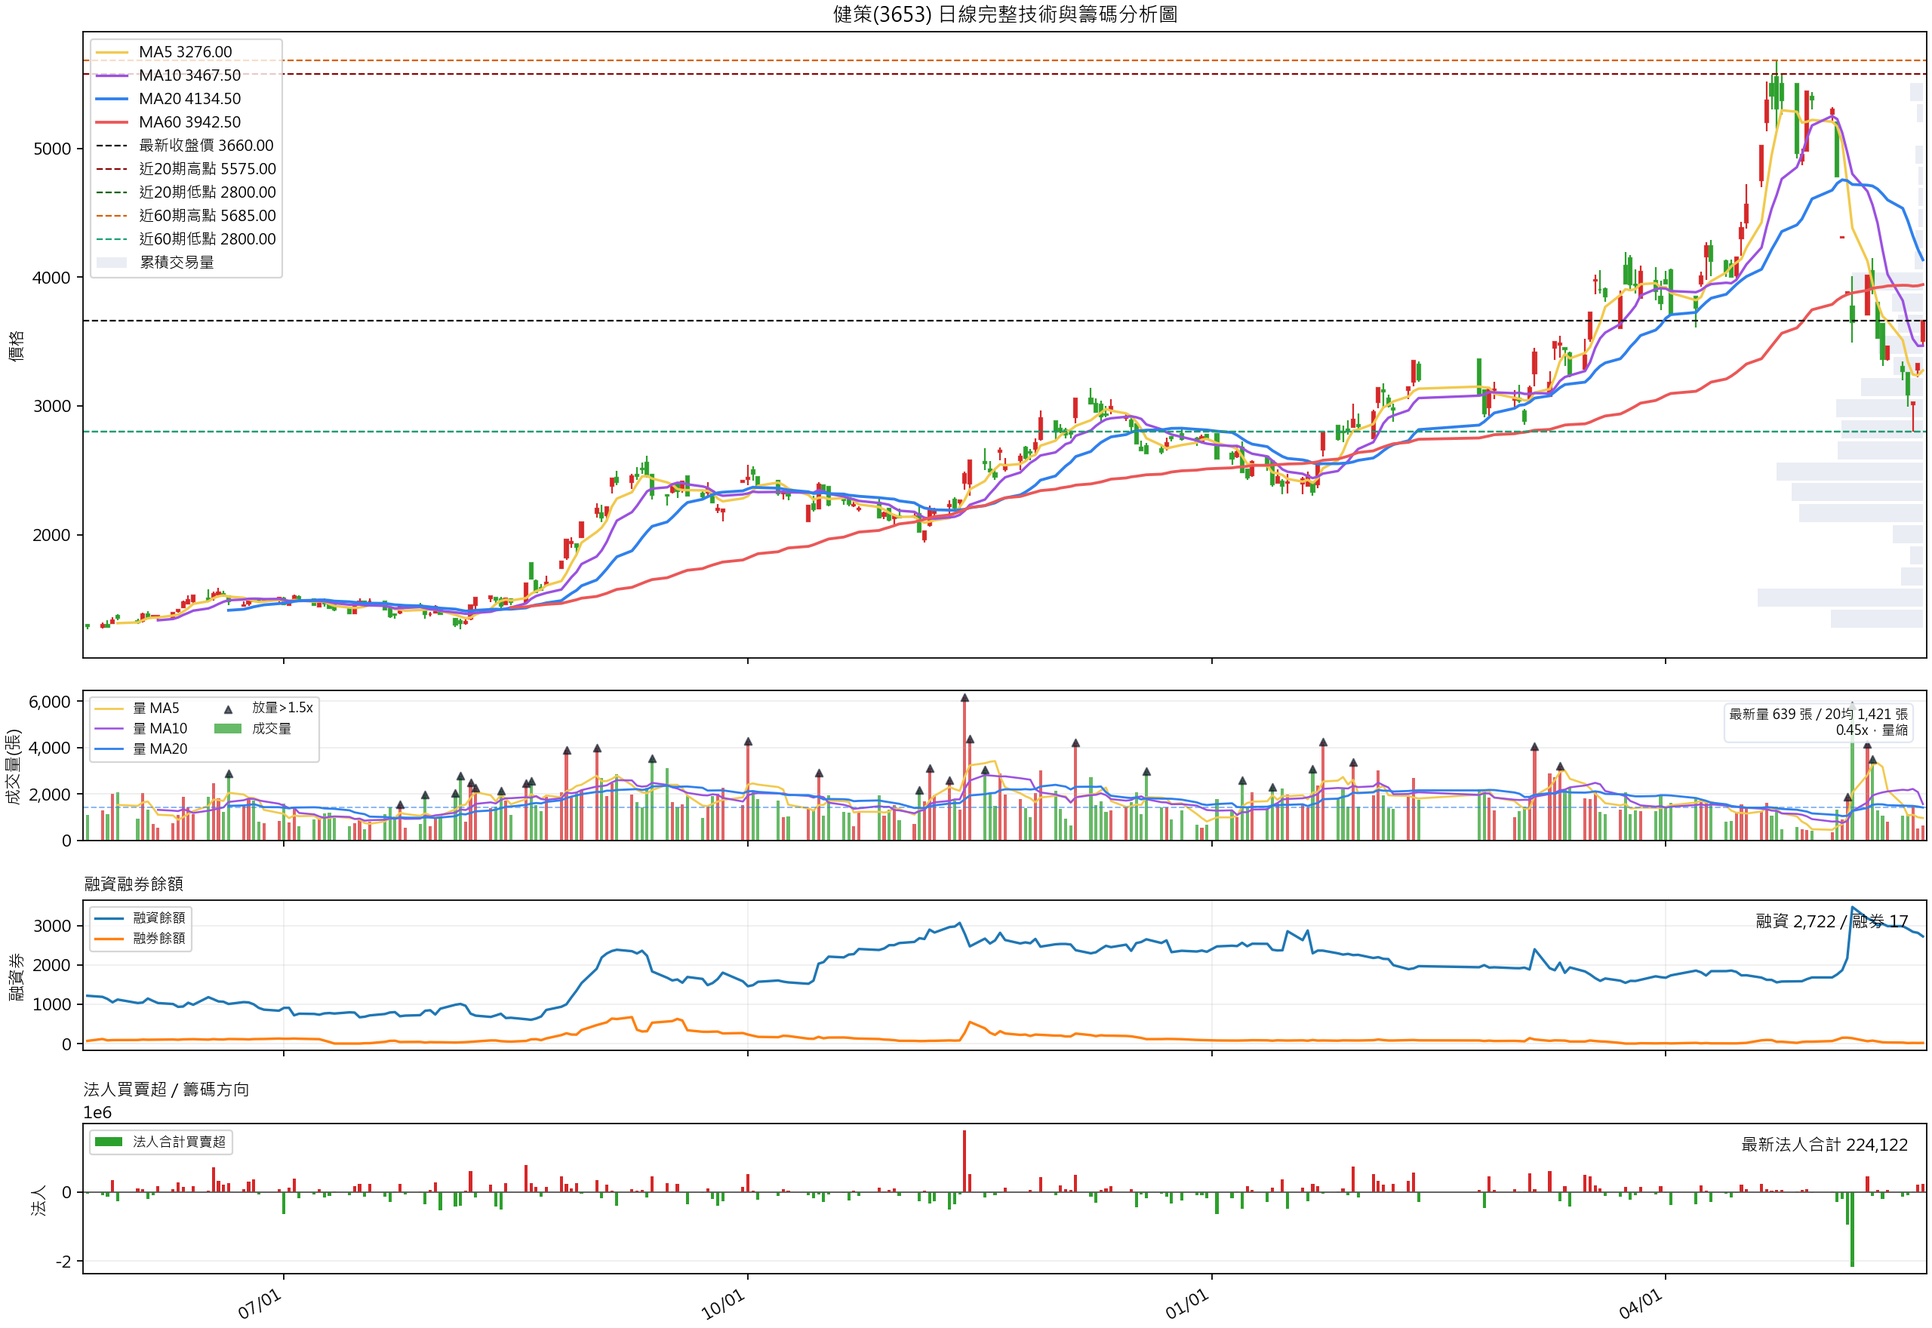
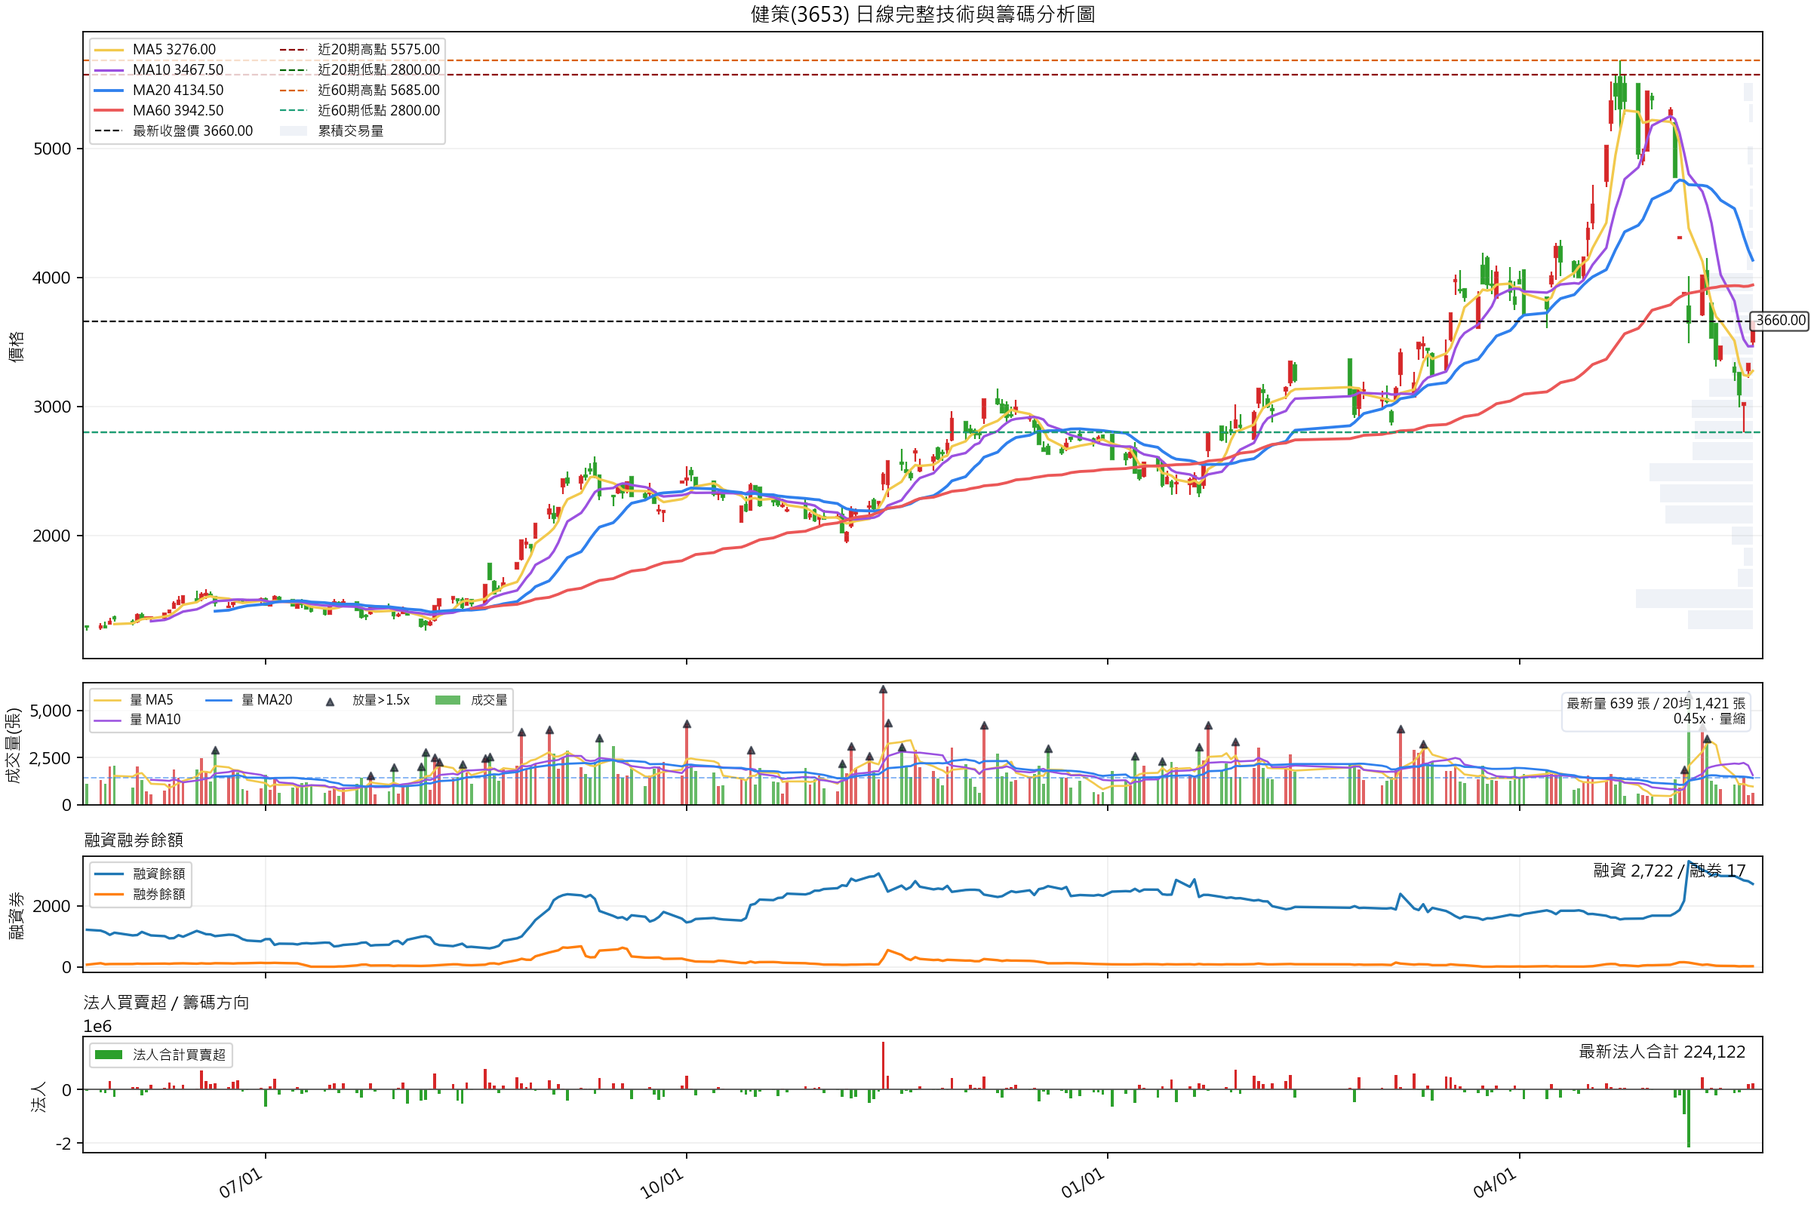
Publish stock report 3653_2026-05-23

diff --git a/3653_2026-05-23/index.html b/3653_2026-05-23/index.html
@@ -92,16 +92,18 @@
 <body>
   <header>
     <h1>健策(3653) 台股技術分析報告</h1>
-    <div>產生時間：2026-05-23T09:34:19+08:00</div>
+    <div>產生時間：2026-05-23T14:56:04+08:00</div>
   </header>
   <main>
     
     <section class="panel conclusion">
       <h2>結論摘要</h2>
-      <div class="summary-grid"><div class="summary-card"><span>整體方向</span><strong>中性偏弱；收盤站上 MA5, MA5 低於 MA10, MA10 上方但投信支撐不足</strong></div>
+      <div class="summary-grid"><div class="summary-card"><span>一句話</span><strong>中性偏弱，偏多震盪；站穩 MA10 3467.50 並突破 5575.00 才有續攻機會，跌破 MA20 4134.50 轉防守。</strong></div>
+<div class="summary-card"><span>整體方向</span><strong>中性偏弱；收盤站上 MA5, MA5 低於 MA10, MA10 上方但投信支撐不足</strong></div>
 <div class="summary-card"><span>明日觀察</span><strong>價漲量縮；明日觀察 MA5 3276.00 / MA10 3467.50</strong></div>
 <div class="summary-card"><span>支撐</span><strong>第一 3276.00 / 第二 3467.50 / 強 4134.50</strong></div>
-<div class="summary-card"><span>壓力</span><strong>5575.00</strong></div></div>
+<div class="summary-card"><span>壓力</span><strong>5575.00</strong></div>
+<div class="summary-card"><span>權證對現股</span><strong>中性偏投機</strong></div></div>
     </section>
     
     <section class="panel">
@@ -119,7 +121,7 @@
 <tr><th>基本面資料</th><td>月營收、估值與正式 EPS 已取得</td></tr></table>
     </section>
     <section class="panel analysis"><h2>零、整體評語 / 技術分析概念 / 明日走向</h2><ul><li>整體評語：目前整體評級為「中性偏弱」（分數 -2）。日線 偏多、周線 偏多、月線 偏空，三個週期若同向，訊號可信度較高；若互相矛盾，應以區間與量能確認為主。</li><li>技術分析概念：本報告以趨勢、位置、量能三個面向判讀。趨勢看均線排列（MA5 3276.00, MA10 3467.50, MA20 4134.50, MA60 3942.50），位置看近 20 / 60 日高低點，量能看今日成交量 638,947 是否高於近 20 日均量 1,420,755。</li><li>目前結構：價格低於主要均線，趨勢結構偏弱，反彈前需先觀察止跌量價。收盤位於近 20 日區間約 31% 位置，仍需觀察是否能脫離區間。量能低於近 20 日均量，代表市場仍偏觀望，突破或跌破訊號需等補量確認。</li><li>MA5 短線判斷：收盤站上 MA5，短線仍有撐盤力道。</li><li>MA10 / 投信支撐：收盤價站上 MA10（3467.50），但投信近 10 日買賣超 -261,617，表示價格雖守住短線均線，法人支撐不足，若跌破 MA10 需提高防守。</li><li>明日走向推估：基於 日漲跌為正, 收盤站上 MA5, 收盤站上 MA10, 收盤跌破 MA20，明日初步以「偏多震盪」看待；若開高並站穩 5575.00，有機會延續挑戰上方壓力；若開低或跌破 2800.00，短線需先防守轉弱。</li><li>觀察價位：短線支撐優先看 4134.50，壓力優先看 5575.00；明日若量能放大且收盤方向明確，會比盤中瞬間突破或跌破更具參考性。</li></ul></section>
-<section class="panel analysis"><h2>一、圖表重點解讀</h2><ul><li>整體評分為「中性偏弱」（分數 -2），主要依據：收盤站上 MA5、MA5 低於 MA10、收盤低於 MA20、收盤低於 MA60、MA20 高於 MA60、量能偏低。</li><li>資料最後交易日為 2026-05-22，最新收盤價 3660.00，單日漲跌幅 9.91%；一年區間 1265.00～5685.00，一年報酬 183.72%。</li><li>趨勢判讀：價格與 20 日、60 日均線交錯，趨勢仍偏整理。 目前 收盤價位於區間中段，短線方向仍需量價確認。</li><li>量價判讀：價漲量縮。價格上漲但量能不足，代表追價力道有限；若接近壓力區，需提防假突破。</li><li>短線均線判斷：收盤站上 MA10=3467.50，但 MA5=3276.00 仍低於 MA10，代表短線正在修復但均線尚未重新翻多。收盤價站上 MA10（3467.50），但投信近 10 日買賣超 -261,617，表示價格雖守住短線均線，法人支撐不足，若跌破 MA10 需提高防守。</li><li>短線風險 / 空間：距近 20 日低點約 30.71%，距近 20 日高點約 52.32%；量能為近 20 日均量 0.45 倍。</li><li>同族群題材判斷：健策(3653) 期間報酬 183.72%，排名第 3/7，屬於位於族群中段；族群同步偏強（上漲 6/7 檔），領先者為 高力(8996) 402.15%。股價較依賴個股量價與法人籌碼，需等待族群擴散或本股重新轉強。</li><li>操作解讀上，若價格突破壓力且量能續增，偏多情境較有延續性；若跌破短線支撐且放量，需優先控管風險。</li></ul></section>
+<section class="panel analysis"><h2>一、圖表重點解讀</h2><ul><li>整體評分為「中性偏弱」（分數 -2），主要依據：收盤站上 MA5、MA5 低於 MA10、收盤低於 MA20、收盤低於 MA60、MA20 高於 MA60、量能偏低。</li><li>資料最後交易日為 2026-05-22，最新收盤價 3660.00，單日漲跌幅 9.91%；一年區間 1265.00～5685.00，一年報酬 183.72%。</li><li>趨勢判讀：價格與 20 日、60 日均線交錯，趨勢仍偏整理。 目前 收盤價位於區間中段，短線方向仍需量價確認。</li><li>量價判讀：價漲量縮。價格上漲但量能不足，代表追價力道有限；若接近壓力區，需提防假突破。</li><li>短線均線判斷：收盤站上 MA10=3467.50，但 MA5=3276.00 仍低於 MA10，代表短線正在修復但均線尚未重新翻多。收盤價站上 MA10（3467.50），但投信近 10 日買賣超 -261,617，表示價格雖守住短線均線，法人支撐不足，若跌破 MA10 需提高防守。</li><li>短線風險 / 空間：距近 20 日低點約 30.71%，距近 20 日高點約 52.32%；量能為近 20 日均量 0.45 倍。</li><li>同族群題材判斷：健策(3653) 期間報酬 183.72%，排名第 3/7，屬於位於族群中段；族群同步偏強（上漲 6/7 檔），本股優於族群中位數，領先者為 高力(8996) 402.15%。股價較依賴個股量價與法人籌碼，需等待族群擴散或本股重新轉強。</li><li>操作解讀上，若價格突破壓力且量能續增，偏多情境較有延續性；若跌破短線支撐且放量，需優先控管風險。</li></ul></section>
 <section class="panel analysis"><h2>二、日週月趨勢與支撐壓力</h2><ul><li>日線：MA5 3276.00、MA10 3467.50、MA20 4134.50；收盤站上 MA10=3467.50，但 MA5=3276.00 仍低於 MA10，代表短線正在修復但均線尚未重新翻多。</li><li>周線 / 月線：周收 3660.00（5.63%），月收 3660.00（-31.97%）。</li><li>支撐：第一 MA5 3276.00 / 近 5 日低點 2800.00；第二 MA10 3467.50；強支撐 MA20 4134.50 / 近 20 日低點 2800.00。</li><li>壓力：短線看近 20 日高點 5575.00，中線看近 60 日高點 5685.00。</li><li>簡化判斷：突破 5575.00 且補量，偏多延續；跌破 2800.00 或 MA20，先轉防守。</li></ul></section>
 <section class="panel analysis"><h2>三、圖表閱讀順序</h2><ul><li>先看 01 日線：確認短線方向、成交量與支撐壓力。</li><li>再看 02 周線與 03 月線：確認這波是短線反彈、波段趨勢，還是長期壓力區。</li><li>最後看權證、同族群、基本面與集保：只作輔助確認，不單獨決定操作。</li></ul></section>
 <section class="panel analysis"><h2>九、短線 / 中線與進出場情境</h2><ul><li>突破情境：收盤突破 5575.00 且量能高於 20 日均量，偏多延續；跌回 MA5 3276.00 下方則降權重。</li><li>拉回情境：回測 MA10 3467.50 或 MA20 4134.50 量縮守住，才視為健康整理。</li><li>防守情境：放量跌破 MA20 4134.50 或近 20 日低點 2800.00，短線先轉防守。</li><li>波動參考：ATR14 約 349.64，明日常態波動區間約 3310.36～4009.64。</li></ul></section>
@@ -127,37 +129,37 @@
     
         <section class="panel chart-panel">
           <h2>01_日線完整技術與籌碼分析圖</h2>
-          <img src="01_日線完整技術與籌碼分析圖.png?v=2026-05-23T09:34:19+08:00" alt="01_日線完整技術與籌碼分析圖">
+          <img src="01_日線完整技術與籌碼分析圖.png?v=2026-05-23T14:56:04+08:00" alt="01_日線完整技術與籌碼分析圖">
         </section>
         
 
         <section class="panel chart-panel">
           <h2>02_周線完整技術與趨勢分析圖</h2>
-          <img src="02_周線完整技術與趨勢分析圖.png?v=2026-05-23T09:34:19+08:00" alt="02_周線完整技術與趨勢分析圖">
+          <img src="02_周線完整技術與趨勢分析圖.png?v=2026-05-23T14:56:04+08:00" alt="02_周線完整技術與趨勢分析圖">
         </section>
         
 
         <section class="panel chart-panel">
           <h2>03_月線完整技術與長期趨勢分析圖</h2>
-          <img src="03_月線完整技術與長期趨勢分析圖.png?v=2026-05-23T09:34:19+08:00" alt="03_月線完整技術與長期趨勢分析圖">
+          <img src="03_月線完整技術與長期趨勢分析圖.png?v=2026-05-23T14:56:04+08:00" alt="03_月線完整技術與長期趨勢分析圖">
         </section>
         
 
         <section class="panel chart-panel">
           <h2>04_權證完整分析圖</h2>
-          <img src="04_權證完整分析圖.png?v=2026-05-23T09:34:19+08:00" alt="04_權證完整分析圖">
+          <img src="04_權證完整分析圖.png?v=2026-05-23T14:56:04+08:00" alt="04_權證完整分析圖">
         </section>
         
 
         <section class="panel chart-panel">
           <h2>05_同族群比較分析圖</h2>
-          <img src="05_同族群比較分析圖.png?v=2026-05-23T09:34:19+08:00" alt="05_同族群比較分析圖">
+          <img src="05_同族群比較分析圖.png?v=2026-05-23T14:56:04+08:00" alt="05_同族群比較分析圖">
         </section>
         
 
         <section class="panel chart-panel">
           <h2>06_基本面分析圖</h2>
-          <img src="06_基本面分析圖.png?v=2026-05-23T09:34:19+08:00" alt="06_基本面分析圖">
+          <img src="06_基本面分析圖.png?v=2026-05-23T14:56:04+08:00" alt="06_基本面分析圖">
         </section>
         
     <section class="panel">
@@ -185,7 +187,7 @@
 
     <details class="panel detail-panel">
       <summary>六、權證與市場情緒</summary>
-      <div class="detail-body"><ul><li>權證定位：本段只用權證資料觀察現股人氣與未來漲勢機率，不作權證買賣建議。</li><li>權證資料期間 / 出表日：TWSE report_date=1150522。</li><li>本次匹配權證 47 檔；認購 40 檔、認售 7 檔，認購/認售檔數比 5.71。</li><li>履約價分布 900.00～5120.00，中位數 3916.88；標的最新收盤 3660.00。</li><li>價內 / 近價外結構：認購價內 15 檔、認購 10% 內價外 4 檔；認售價內 0 檔、認售 10% 內價外 0 檔。</li><li>成交金額合計 6,842,720，其中認購 6,668,040（97.45%）、認售 174,680（2.55%）；認購成交較集中，前 5 大成交占比 59.36%。</li><li>權證名詞說明：近價外認購代表市場押注區離現股不遠，對現股續漲的參考性通常高於深價外；深價外認購代表想像空間大，但確認力較弱。</li><li>履約價熱區：認購成交加權履約價約 4421.79，較現股高約 20.81%；認售成交加權履約價約 2751.90，現股較其高約 33.00%。認購成交中，近價外 10% 內占 9.95%，深價外認購占 84.40%。</li><li>以權證角度看目前股價：目前股價 3660.00 距離認購成交加權履約價 4421.79 還有 20.81% 空間，代表權證市場仍在押較大的上攻想像；但若現股沒有快速補漲，深價外認購的時間價值壓力會增加。</li><li>權證情緒分型：本次屬於「偏多但投機」。近價外認購成交金額 663,680，深價外認購成交金額 5,628,090，近價外認售成交金額 0，深價外認售成交金額 174,680。深價外認購比重偏高，代表市場想像空間大，但對現股方向的確認力較弱。</li><li>資金集中度：前 5 大權證成交占 59.36%。成交集中度偏高，短線情緒可能由少數熱門權證帶動，容易放大波動。</li><li>輔助結論：認購成交很熱，但深價外認購占比較高，表示市場有追逐大波動的投機資金。它可以反映人氣升溫，但對現股漲跌的確認力低於近價外認購。</li><li>白話解讀：權證市場偏向押快速上漲，但有一部分離現股較遠；如果現股沒有繼續強，這個熱度容易先退。簡單說，權證是在看市場有沒有跟著股票一起熱起來；它可以加分或扣分，但不能單獨決定股價方向。</li><li>未來一個月現股輔助推估：現股技術面初步為「高波動區間震盪」。若價格維持在 MA20 / MA60 之上、量能不縮，且認購成交沒有明顯退潮，偏多情境較容易延續；若現股跌破支撐，即使認購仍熱，也要先降低權證訊號權重。</li><li>一個月觀察區間：上方先看 5575.00，再看近 60 日高點 5685.00；下方先看 4134.50，再看近 20 日低點 2800.00。突破近 20 日高點 5575.00 可視為偏多確認；跌破近 20 日低點 2800.00 則偏多情境失效；MA20 4134.50 是短中線強弱分界。</li><li>現股判斷用法：近價外認購有量、認售沒有明顯放大、且現股同步站穩均線時，權證資料可視為現股續漲的加分項；若權證很熱但現股不漲，則視為人氣過熱而非追價確認。</li></ul></div>
+      <div class="detail-body"><ul><li>權證定位：本段只用權證資料觀察現股人氣與未來漲勢機率，不作權證買賣建議。</li><li>權證對現股訊號：中性偏投機。認購很熱但偏深價外，較像押大波動，對現股續漲的確認力不如近價外。</li><li>權證資料期間 / 出表日：TWSE report_date=1150522。</li><li>本次匹配權證 47 檔；認購 40 檔、認售 7 檔，認購/認售檔數比 5.71。</li><li>履約價分布 900.00～5120.00，中位數 3916.88；標的最新收盤 3660.00。</li><li>價內 / 近價外結構：認購價內 15 檔、認購 10% 內價外 4 檔；認售價內 0 檔、認售 10% 內價外 0 檔。</li><li>成交金額合計 6,842,720，其中認購 6,668,040（97.45%）、認售 174,680（2.55%）；認購成交較集中，前 5 大成交占比 59.36%。</li><li>權證名詞說明：近價外認購代表市場押注區離現股不遠，對現股續漲的參考性通常高於深價外；深價外認購代表想像空間大，但確認力較弱。</li><li>履約價熱區：認購成交加權履約價約 4421.79，較現股高約 20.81%；認售成交加權履約價約 2751.90，現股較其高約 33.00%。認購成交中，近價外 10% 內占 9.95%，深價外認購占 84.40%。</li><li>以權證角度看目前股價：目前股價 3660.00 距離認購成交加權履約價 4421.79 還有 20.81% 空間，代表權證市場仍在押較大的上攻想像；但若現股沒有快速補漲，深價外認購的時間價值壓力會增加。</li><li>權證情緒分型：本次屬於「偏多但投機」。近價外認購成交金額 663,680，深價外認購成交金額 5,628,090，近價外認售成交金額 0，深價外認售成交金額 174,680。深價外認購比重偏高，代表市場想像空間大，但對現股方向的確認力較弱。</li><li>資金集中度：前 5 大權證成交占 59.36%。成交集中度偏高，短線情緒可能由少數熱門權證帶動，容易放大波動。</li><li>輔助結論：認購成交很熱，但深價外認購占比較高，表示市場有追逐大波動的投機資金。它可以反映人氣升溫，但對現股漲跌的確認力低於近價外認購。</li><li>白話解讀：權證市場偏向押快速上漲，但有一部分離現股較遠；如果現股沒有繼續強，這個熱度容易先退。簡單說，權證是在看市場有沒有跟著股票一起熱起來；它可以加分或扣分，但不能單獨決定股價方向。</li><li>未來一個月現股輔助推估：現股技術面初步為「高波動區間震盪」。若價格維持在 MA20 / MA60 之上、量能不縮，且認購成交沒有明顯退潮，偏多情境較容易延續；若現股跌破支撐，即使認購仍熱，也要先降低權證訊號權重。</li><li>一個月觀察區間：上方先看 5575.00，再看近 60 日高點 5685.00；下方先看 4134.50，再看近 20 日低點 2800.00。突破近 20 日高點 5575.00 可視為偏多確認；跌破近 20 日低點 2800.00 則偏多情境失效；MA20 4134.50 是短中線強弱分界。</li><li>現股判斷用法：近價外認購有量、認售沒有明顯放大、且現股同步站穩均線時，權證資料可視為現股續漲的加分項；若權證很熱但現股不漲，則視為人氣過熱而非追價確認。</li></ul></div>
     </details>
     
 
@@ -209,7 +211,7 @@
 
     <details class="panel detail-panel">
       <summary>八、基本面 EPS / 月營收</summary>
-      <div class="detail-body"><ul><li>基本面資料期間：revenue 2023-12-01 to 2026-05-01; PER/PBR 2025-05-23 to 2026-05-22; EPS 2021-06-30 to 2026-03-31。</li><li>最新月營收 2026-04 為 23.11 億元，MoM 6.82%，YoY 26.92%。</li><li>近 3 個月營收 57.43 億元，較前 3 個月 5.49%。</li><li>最新估值：PER 101.24、PBR 25.35、殖利率 0.60%。</li><li>正式 EPS：最新 2026Q1 基本每股盈餘 9.53 元，較去年同期 -0.63%。</li><li>是否支持股價：支持度中性。理由：近 3 個月營收動能改善、最新月營收年增雙位數、PER 位階偏高，股價需要成長性支撐、正式 EPS 年減。</li></ul></div>
+      <div class="detail-body"><ul><li>基本面資料期間：revenue 2023-12-01 to 2026-05-01; PER/PBR 2025-05-23 to 2026-05-22; EPS 2021-06-30 to 2026-03-31。</li><li>最新月營收 2026-04 為 23.11 億元，MoM 6.82%，YoY 26.92%。</li><li>近 3 個月營收 57.43 億元，較前 3 個月 5.49%。</li><li>最新估值：PER 101.24、PBR 25.35、殖利率 0.60%。</li><li>正式 EPS：最新 2026Q1 基本每股盈餘 9.53 元，較去年同期 -0.63%。</li><li>是否支持股價：支持度中性。理由：近 3 個月營收動能改善、最新月營收年增雙位數、PER 位階偏高，股價需要成長性支撐、正式 EPS 年減。</li><li>股價是否反映過度：股價可能領先基本面，後續需要 EPS 或營收持續上修來支撐評價。</li></ul></div>
     </details>
     
 
